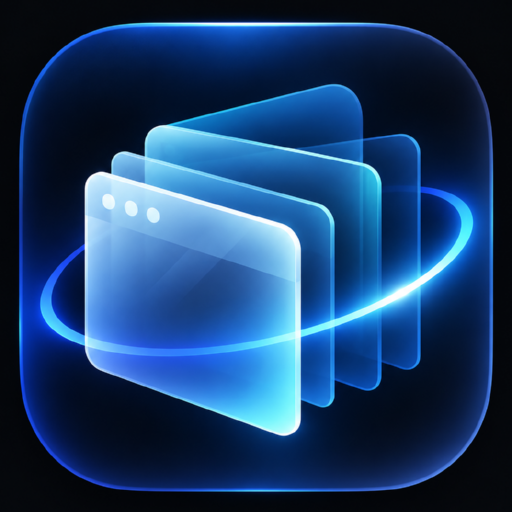
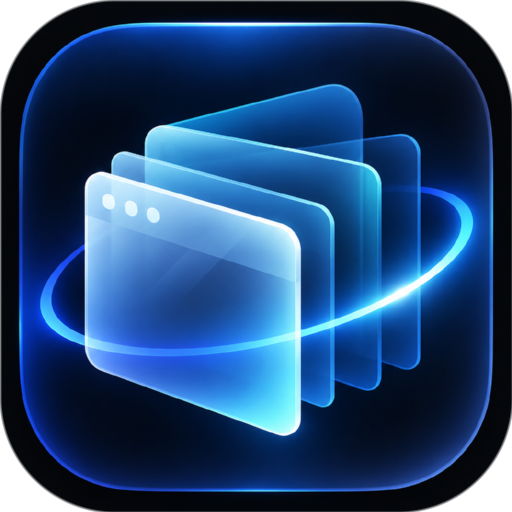
V0.0.40: 崩溃归因(AevonCrashAttrV40,外部模块崩溃不再误禁Aevon,根治无法启用); Sileo图标改纯路径(file:// scheme不解析); 全部图标加圆角透明蒙版(设置图标四角黑边)

Changed region(s): [[0.0, 0.0, 1.0, 1.0], [0.8125, 0.8125, 1.0, 1.0]]

diff --git a/Sources/AevonCrashCatcher.swift b/Sources/AevonCrashCatcher.swift
@@ -17,10 +17,16 @@ import Darwin
  */
 
 private let kCrashLogPath = "/var/mobile/Aevon.crash.log"
+private let kOwnerPath = "/var/mobile/Aevon.crash.owner"
 private let kCrashLogPathBytes: [CChar] = Array(kCrashLogPath.utf8CString)
+private let kOwnerPathBytes: [CChar] = Array(kOwnerPath.utf8CString)
 private let kSignalTextBytes: [CChar] = Array("[崩溃] 捕获到致命信号，编号=".utf8CString)
 private let kBacktraceTitleBytes: [CChar] = Array("[崩溃] 调用栈回溯（模块+偏移，供离线符号化；AevonCrashTraceV39）\n".utf8CString)
 private let kSignalTailBytes: [CChar] = Array("（SpringBoard 即将退出）\n".utf8CString)
+private let kAttrExternalBytes: [CChar] = Array("[崩溃] 归因：外部模块引起（回溯无 Aevon 帧，Aevon 不背锅；AevonCrashAttrV40）\n".utf8CString)
+private let kAttrOwnedBytes: [CChar] = Array("[崩溃] 归因：Aevon 参与崩溃（AevonCrashAttrV40）\n".utf8CString)
+private let kOwnerExternal: [CChar] = Array("external".utf8CString)
+private let kOwnerAevon: [CChar] = Array("aevon".utf8CString)
 
 /// 致命信号处理：先落盘（信号编号 + 调用栈回溯），再恢复默认处理并重新抛出。
 ///
@@ -62,13 +68,39 @@ private func aevonSignalHandler(_ signalNumber: Int32) {
         // Swift 的 Darwin 模块在部分 SDK 上不暴露 execinfo。
         var frames = [UnsafeMutableRawPointer?](repeating: nil, count: 64)
         let count = Int(AevonBacktrace(&frames, 64))
+        // V0.0.40（AevonCrashAttrV40）：归因。回溯帧 0/1 是信号处理器自身、
+        // 帧 2 是 sigtramp 跳板，从帧 3 起才是真正崩溃现场——
+        // 只有现场里出现 Aevon 自己的帧才认账，否则是别的插件崩了（真机定论：
+        // ZZEvoCenterRuntime 崩溃曾把 Aevon 误禁用，用户永远开不起来）。
+        var owned = 0
+        if count > 3 {
+            owned = AevonCrashAttrOwnsFrame(&frames, Int32(count), 3)
+        }
+        if fd >= 0 {
+            _ = (owned == 1 ? kAttrOwnedBytes : kAttrExternalBytes).withUnsafeBufferPointer { buffer in
+                write(fd, buffer.baseAddress, buffer.count - 1)
+            }
+        }
         if count > 0 {
             _ = kBacktraceTitleBytes.withUnsafeBufferPointer { buffer in
                 write(fd, buffer.baseAddress, buffer.count - 1)
             }
             AevonBacktraceSymbolsFD(&frames, Int32(count), fd)
         }
-        close(fd)
+        if fd >= 0 { close(fd) }
+
+        // 归因标记文件：崩溃保护据此决定是否禁用（信号处理里只能 open/write/close）
+        let ofd = kOwnerPathBytes.withUnsafeBufferPointer { buffer -> Int32 in
+            guard let base = buffer.baseAddress else { return -1 }
+            return open(base, O_WRONLY | O_CREAT | O_TRUNC, 0o644)
+        }
+        if ofd >= 0 {
+            let payload = owned == 1 ? kOwnerAevon : kOwnerExternal
+            _ = payload.withUnsafeBufferPointer { buffer in
+                write(ofd, buffer.baseAddress, buffer.count - 1)
+            }
+            close(ofd)
+        }
     }
 
     signal(signalNumber, SIG_DFL)
@@ -102,6 +134,18 @@ enum AevonCrashCatcher {
         for sig in [SIGABRT, SIGSEGV, SIGBUS, SIGILL, SIGTRAP, SIGFPE] {
             _ = signal(sig, handler)
         }
+        // V0.0.40（AevonCrashAttrV40）：先算好自身地址段，信号处理里做纯指针归因
+        AevonCrashAttrPrepare()
+    }
+
+    /// 读崩溃归因标记（信号处理写下的 owner 文件）："aevon" / "external" / nil。
+    /// 读完即删——一次崩溃只归因一次。
+    static func takeCrashAttribution() -> String? {
+        let manager = FileManager.default
+        guard let data = manager.contents(atPath: kOwnerPath),
+              let text = String(data: data, encoding: .utf8) else { return nil }
+        try? manager.removeItem(atPath: kOwnerPath)
+        return text.trimmingCharacters(in: .whitespacesAndNewlines)
     }
 
     /// 把上一次进程留下的崩溃记录并入主日志，并归档为 .old（只保留一份）。

diff --git a/Sources/AevonCrashGuard.swift b/Sources/AevonCrashGuard.swift
@@ -30,10 +30,19 @@ enum AevonCrashGuard {
         let previous = current
 
         if previous == .loading {
-            // 上次加载后 SpringBoard 未能稳定运行 → 判定为插件导致崩溃，自动禁用。
+            // V0.0.40（AevonCrashAttrV40）：先看归因。真机 Aevon(32) 定论：
+            // 其他插件（ZZEvoCenterRuntime）崩溃也会被我们的信号处理器捕获，
+            // 之前一律自动禁用 Aevon → 用户开启插件后每次注销都被关回去，
+            // 永远开不起来。现在只有回溯里真出现 Aevon 帧才认账。
+            if AevonCrashCatcher.takeCrashAttribution() == "external" {
+                AevonPrefs.set(stateKey, State.healthy.rawValue)
+                AevonLog.warn("[崩溃保护] 上次崩溃由外部模块引起（回溯中无 Aevon 帧），不自动禁用 Aevon；若频繁崩溃请排查其他插件（AevonCrashAttrV40）。")
+                return true
+            }
+            // 上次加载后 SpringBoard 未能稳定运行且确为 Aevon 参与 → 自动禁用。
             AevonPrefs.set(enabledKey, false)
             AevonPrefs.set(stateKey, State.healthy.rawValue)
-            AevonLog.warn("[崩溃保护] 检测到上次加载后 SpringBoard 未稳定运行，已自动禁用 Aevon；如需重新启用请前往 设置 → Aevon。")
+            AevonLog.warn("[崩溃保护] 检测到上次加载后 SpringBoard 未稳定运行（Aevon 参与），已自动禁用 Aevon；如需重新启用请前往 设置 → Aevon。")
             return false
         }
 

diff --git a/Sources/Aevon.swift b/Sources/Aevon.swift
@@ -2,7 +2,7 @@ import Foundation
 import UIKit
 
 /// Aevon 版本号（与 control 保持一致；CI 会按 tag 覆盖本行）。
-let AevonVersion = "0.0.39"
+let AevonVersion = "0.0.40"
 
 /// dyld 构造函数入口（由 AevonAssertionShim.m 以 C 符号调用）。
 /// 约定：本函数绝不抛出、绝不强制解包失败；任何异常路径只记录日志。

diff --git a/AevonAssertionShim.m b/AevonAssertionShim.m
@@ -67,6 +67,10 @@ __attribute__((used)) static const char AevonMedusaFrameV37Marker[] = "AevonMedu
 __attribute__((used)) static const char AevonOutsideHitV38Marker[] = "AevonOutsideHitV38";
 __attribute__((used)) static const char AevonSwipeOnlyV38Marker[] = "AevonSwipeOnlyV38";
 
+/* V0.0.40：崩溃归因（外部模块崩溃不再误禁 Aevon）+ Sileo 图标纯路径 */
+__attribute__((used)) static const char AevonCrashAttrV40Marker[] = "AevonCrashAttrV40";
+__attribute__((used)) static const char AevonSileoIconV40Marker[] = "AevonSileoIconV40";
+
 /* V0.0.39 CI 标记：
  * AevonBootShieldV39    = 启动关键路径 ObjC 异常保护（入口创建 @try 兜底，防自动注销）；
  * AevonCrashTraceV39    = 崩溃捕获器升级：SIGSEGV 等致命信号落盘调用栈回溯；
@@ -540,4 +544,48 @@ NSInteger AevonBacktrace(void **stack, int max) {
 
 void AevonBacktraceSymbolsFD(void **stack, int size, int fd) {
     backtrace_symbols_fd(stack, size, fd);
+}
+
+/* V0.0.40（AevonCrashAttrV40）：崩溃归因。
+ * 真机 Aevon(32) 定论：其他插件（ZZEvoCenterRuntime）崩溃也会被我们的信号
+ * 处理器捕获，崩溃保护「看到 SB 崩了就禁用 Aevon」造成误伤——用户开启插件
+ * 后每次注销都被自动关回去，永远开不起来。
+ * 方案：加载时解析自身 mach-o 的 __TEXT 段范围；信号处理里对回溯帧做
+ * 纯指针比较（无 malloc / 无符号化，async-signal-safe），只有崩溃栈里
+ * 真的出现了 Aevon 自己的帧，才承认是 Aevon 的锅。 */
+#import <dlfcn.h>
+#import <mach-o/loader.h>
+#import <mach-o/getsect.h>
+#import <string.h>
+
+static uintptr_t aevonTextStart = 0;
+static uintptr_t aevonTextEnd = 0;
+
+void AevonCrashAttrPrepare(void) {
+    Dl_info info;
+    if (dladdr((void *)AevonCrashAttrPrepare, &info) == 0 || info.dli_fbase == NULL) { return; }
+    uintptr_t base = (uintptr_t)info.dli_fbase;
+    const struct mach_header_64 *mh = (const struct mach_header_64 *)base;
+    if (mh->magic != MH_MAGIC_64) { return; }
+
+    /* 优先用 getsectdata 取 __TEXT：包含头部与全部代码段 */
+    unsigned long size = 0;
+    uint8_t *start = getsectiondata(mh, "__TEXT", "__text", &size);
+    if (start != NULL && size > 0) {
+        aevonTextStart = (uintptr_t)start;
+        aevonTextEnd = (uintptr_t)start + size;
+        return;
+    }
+    /* 兜底：__text 段取不到就用整个镜像基址往后 64MB（宁可误判参与也不漏判） */
+    aevonTextStart = base;
+    aevonTextEnd = base + 0x4000000;
+}
+
+int AevonCrashAttrOwnsFrame(void **stack, int count, int skip) {
+    if (aevonTextEnd == 0) { return 0; }
+    for (int i = skip; i < count; i++) {
+        uintptr_t pc = (uintptr_t)stack[i];
+        if (pc >= aevonTextStart && pc < aevonTextEnd) { return 1; }
+    }
+    return 0;
 }

diff --git a/AevonAssertionShim.h b/AevonAssertionShim.h
@@ -41,3 +41,13 @@ BOOL AevonTryExecute(void (^block)(void), NSString **outName, NSString **outReas
 /// 经 ObjC 垫片转发（崩溃信号处理里用，抓当前线程调用栈写入崩溃文件）。
 NSInteger AevonBacktrace(void **stack, int max);
 void AevonBacktraceSymbolsFD(void **stack, int size, int fd);
+
+/// V0.0.40（AevonCrashAttrV40）：崩溃归因。
+/// 插件加载时调用一次：算出自身 __TEXT 段地址范围（dladdr + mach-o 解析）。
+/// 真机 Aevon(32) 定论：ZZEvoCenterRuntime.dylib 崩溃也会被我们的信号处理器
+/// 捕获记录，崩溃保护误把 Aevon 自动禁用 → 用户永远开不起来插件。
+void AevonCrashAttrPrepare(void);
+/// 判定回溯栈（跳过前 skip 帧：AevonBacktrace / 信号处理器 / sigtramp 跳板）
+/// 里有没有落在 Aevon 自身地址段内的帧。返回 1 = Aevon 参与（要负责），
+/// 0 = 外部模块引起（不背锅、不禁用）。纯指针比较，信号处理内安全。
+int AevonCrashAttrOwnsFrame(void **stack, int count, int skip);
